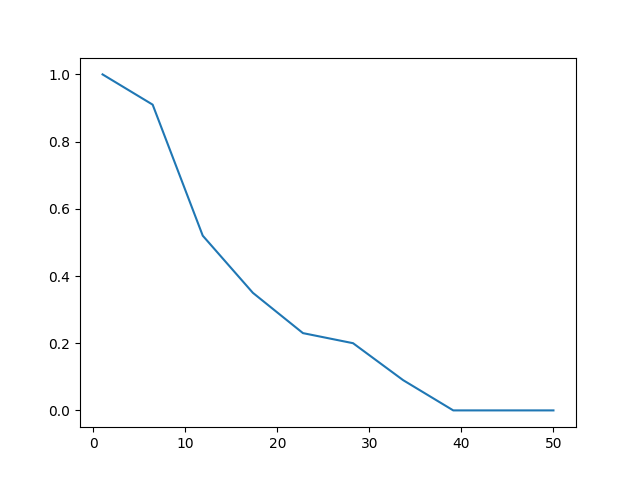
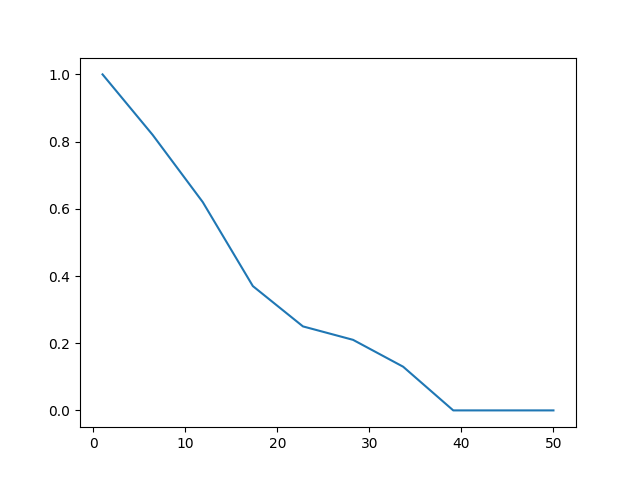
Plotje gemaakt, check m

diff --git a/astroworksop.py b/astroworksop.py
@@ -11,8 +11,6 @@ import matplotlib.pyplot as plt
 from scipy import spatial
 
 
-sim = rebound.Simulation.from_file("solar_system_outer_planets.bin")
-
 
 def simulate_fly_by(sim, intruder, visualize=False):
     """
@@ -68,10 +66,12 @@ def strong_regime(resolution, n_trials):
           f"{n_trials} trials each...")
     xs = np.linspace(1, 50, resolution)
     f_eject = np.ones(resolution)
+    f_stable = np.ones(resolution)
 
     for i, x in enumerate(xs):
         print("Running r_min =", x)
         eject_count = 0.
+        stable_count = 0.
 
         # run n_trials trials detecting ejection directly after fly-by
         for j in range(n_trials):
@@ -82,7 +82,6 @@ def strong_regime(resolution, n_trials):
             intruder = rebound.Particle(m=1.,x=x,y=-1000.,vy=2.)
 
             sim = simulate_fly_by(sim, intruder)
-
             sim.move_to_hel()
             for particle in sim.particles[1:]:
                 v = np.linalg.norm(particle.vxyz)
@@ -90,12 +89,19 @@ def strong_regime(resolution, n_trials):
                 if v > v_esc:
                     eject_count += 1
                     break
-        print("Detected", eject_count, "ejections out of", n_trials, "trials.")
+            stable = analyze_stability(sim)
+            if stable:
+                stable_count += 1
+        print(f"Detected", eject_count, "ejections out of", n_trials, "trials.")
+        if stable_count:
+            percentage = 100 * stable_count / (n_trials-eject_count)
+            print(eject_count, n_trials, stable_count)
+            print(f"Of the {n_trials - eject_count} systems left,  {percentage}% was not long term unstable")
         f_eject[i] = eject_count / n_trials
+        f_stable[i] = stable_count / (n_trials)
         print(f_eject[i])
 
-
-    return (xs, f_eject)
+    return (xs, f_eject, f_stable)
 
 
 def mutual_rhill(p1, p2):
@@ -146,8 +152,8 @@ def check_orbit_crossing(simulation):
         for j, loc2 in enumerate(locationslist[i+1:]):
             dist_mat = spatial.distance_matrix(loc1, loc2)
             if dist_mat[np.where(dist_mat < mutual_rhill(simulation.particles[i+1],
-                                                         simulation.particles[j+i+2]))].size > 0:
-                print(f"Planet {i+1} and {i+j+2} (counting from star) will collide!")
+                    simulation.particles[j+i+2]))].size > 0:
+                # print(f"Planet {i+1} and {i+j+2} (counting from star) will collide!")
                 return True
 
     return False
@@ -171,7 +177,7 @@ def check_immediate_ejection(sim):
     return False
 
 
-def  check_kozai(sim):
+def check_kozai(sim):
     """
     Checks whether the kozai mechanism is happening in a simulation.
     """
@@ -214,12 +220,20 @@ def analyze_stability(sim):
 
 if __name__ == "__main__":
 
-    resolution = 10
+    resolution = 30
     n_trials = 100
-    take = 1
+    take = 2
 
-    xs, f_eject = strong_regime(resolution, n_trials)
-    plt.plot(xs, f_eject)
+    xs, f_eject, f_stable = strong_regime(resolution, n_trials)
+    plt.figure(1)
+    # plt.subplot(211)
+    plt.plot(xs, f_eject, 'b--')
+    plt.title("Systems ejecting a planet")
+    # plt.subplot(212)
+    # plt.title("Stable systems")
+    plt.xlabel("r_min (AU)")
+    plt.ylabel("Fraction")
+    plt.plot(xs, f_stable, 'r--')
     plt.savefig(f"Strong regime, resolution at {resolution} and {n_trials} trials"
                 f", take {take}")
     plt.show()
